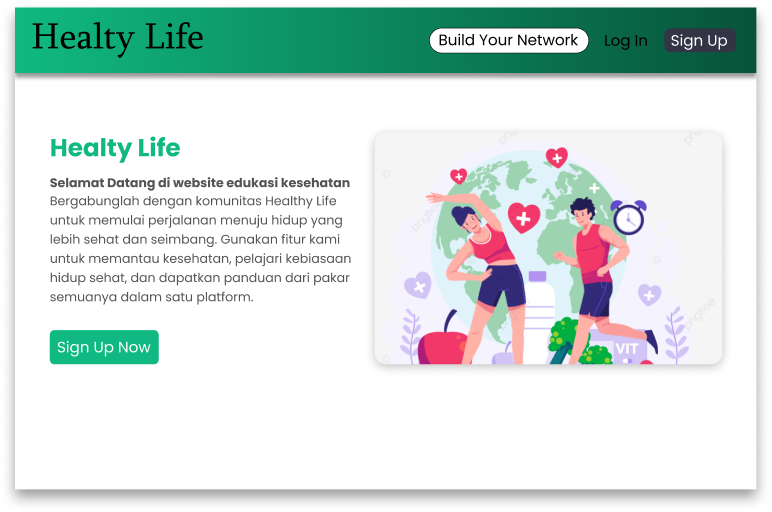
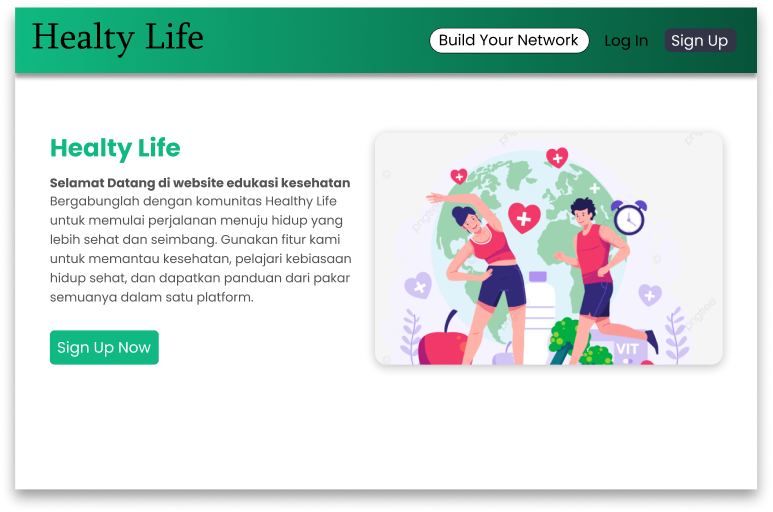
Update Projects again

diff --git a/src/App.jsx b/src/App.jsx
@@ -26,6 +26,14 @@ import iphoneLogo from './assets/iphone.png'
 import iphone1Logo from './assets/iphone 1.png'
 import splashLogo from './assets/splash.png'
 import projectSanding from './assets/sanding.png'
+import projectPasarNgalam from './assets/Ngalam.png'
+import mysqlLogo from './assets/Mysql.png'
+import javascriptLogo from './assets/Javascript.png'
+import laravelLogo from './assets/laravel.png'
+import projectUmkm from './assets/umkm.png'
+import projectIot from './assets/IOT.png'
+import tailwindLogo from './assets/Tailwind CSS.png'
+import reactLogo from './assets/react.svg'
 import './App.css'
 
 function App() {
@@ -239,6 +247,43 @@ function App() {
           <div className="projects-divider scroll-reveal"></div>
 
           <div className="projects-list">
+            {/* Project 1: Sentinel IoT */}
+            <div className="project-item visual-left scroll-reveal">
+              <div className="project-visual">
+                <div className="project-image-wrapper">
+                  <img src={projectIot} alt="Sentinel IoT Preview" className="project-image" />
+                </div>
+              </div>
+
+              <div className="project-info">
+                <div className="project-header-container">
+                  <h3 className="project-item-title">SENTINEL - IOT</h3>
+                  <span className="project-badge project-badge-iot">IOT</span>
+                </div>
+                
+                <p className="project-desc">
+                  Developed an IoT monitoring system to detect fire and gas leaks in real time by integrating sensors, a microcontroller, and a web-based dashboard. Implemented the Sugeno Fuzzy Logic algorithm to process sensor data and enable automated decision-making, improving safety and response to potential hazards.
+                </p>
+
+                <div className="project-footer">
+                  <div className="project-tech-icons">
+                    <div className="tech-icon-wrapper">
+                      <img src={laravelLogo} alt="Laravel" className="tech-icon" />
+                    </div>
+                    <div className="tech-icon-wrapper">
+                      <img src={mysqlLogo} alt="MySQL" className="tech-icon" />
+                    </div>
+                    <div className="tech-icon-wrapper">
+                      <img src={reactLogo} alt="ReactJS" className="tech-icon" />
+                    </div>
+                    <div className="tech-icon-wrapper">
+                      <img src={tailwindLogo} alt="Tailwind CSS" className="tech-icon" />
+                    </div>
+                  </div>
+                </div>
+              </div>
+            </div>
+
             <div className="project-item scroll-reveal">
               <div className="project-info">
                 <div className="project-header-container">
@@ -276,14 +321,14 @@ function App() {
               </div>
 
               <div className="project-visual">
-                <div className="project-image-wrapper">
+                <div className="project-image-wrapper healty-life-wrapper">
                   <img src={projectHealtyLife} alt="Healthy Life Website Preview" className="project-image" />
                 </div>
               </div>
             </div>
 
             {/* Project 2: Lokara */}
-            <div className="project-item scroll-reveal">
+            <div className="project-item visual-left scroll-reveal">
               <div className="project-visual">
                 <div className="project-image-wrapper lokara-wrapper">
                   <img src={splashLogo} alt="Lokara Splash Background" className="project-image lokara-bg" />
@@ -344,6 +389,94 @@ function App() {
               <div className="project-visual">
                 <div className="project-image-wrapper">
                   <img src={projectSanding} alt="Sanding Solutions Website Preview" className="project-image" />
+                </div>
+              </div>
+            </div>
+
+            {/* Project 4: Pasar Ngalam */}
+            <div className="project-item visual-left scroll-reveal">
+              <div className="project-visual">
+                <div className="project-image-wrapper">
+                  <img src={projectPasarNgalam} alt="Pasar Ngalam Website Preview" className="project-image" />
+                </div>
+              </div>
+
+              <div className="project-info">
+                <div className="project-header-container">
+                  <h3 className="project-item-title">PASAR NGALAM - MARKETPLACE PLATFORM</h3>
+                  <span className="project-badge">Website</span>
+                </div>
+                
+                <p className="project-desc">
+                  Developed a marketplace platform to help local sellers market their products digitally through product management, catalog, and structured database features. Designed an efficient data management system to streamline product entry, organization, and information display while supporting well-organized digital transactions.
+                </p>
+
+                <div className="project-footer">
+                  <div className="project-tech-icons">
+                    <div className="tech-icon-wrapper">
+                      <img src={mysqlLogo} alt="MySQL" className="tech-icon" />
+                    </div>
+                    <div className="tech-icon-wrapper">
+                      <img src={javascriptLogo} alt="Javascript" className="tech-icon" />
+                    </div>
+                    <div className="tech-icon-wrapper">
+                      <img src={phpLogo} alt="PHP" className="tech-icon" />
+                    </div>
+                    <div className="tech-icon-wrapper">
+                      <img src={figmaLogo} alt="Figma" className="tech-icon" />
+                    </div>
+                    <div className="tech-icon-wrapper">
+                      <img src={laravelLogo} alt="Laravel" className="tech-icon" />
+                    </div>
+                  </div>
+
+                  <a href="#" target="_blank" rel="noopener noreferrer" className="live-demo-badge-inline">
+                    Live Demo <span className="demo-arrow">↗</span>
+                  </a>
+                </div>
+              </div>
+            </div>
+
+            {/* Project 5: Waroeng K-conk */}
+            <div className="project-item scroll-reveal">
+              <div className="project-info">
+                <div className="project-header-container">
+                  <h3 className="project-item-title">WEBSITE WAROENG K-CONK - UMKM KULINER</h3>
+                  <span className="project-badge">Website</span>
+                </div>
+                
+                <p className="project-desc">
+                  Developed a web platform for Waroeng K-Conk, a culinary local business (UMKM) specializing in authentic bebek bumbu hitam. Designed and implemented website features to display menus, facilitate ordering processes, and showcase culinary offerings to help the business digitalize its operations and reach a wider customer base.
+                </p>
+
+                <div className="project-footer">
+                  <div className="project-tech-icons">
+                    <div className="tech-icon-wrapper">
+                      <img src={xamppLogo} alt="XAMPP" className="tech-icon" />
+                    </div>
+                    <div className="tech-icon-wrapper">
+                      <img src={phpLogo} alt="PHP" className="tech-icon" />
+                    </div>
+                    <div className="tech-icon-wrapper">
+                      <img src={figmaLogo} alt="Figma" className="tech-icon" />
+                    </div>
+                    <div className="tech-icon-wrapper">
+                      <img src={htmlLogo} alt="HTML5" className="tech-icon" />
+                    </div>
+                    <div className="tech-icon-wrapper">
+                      <img src={cssLogo} alt="CSS3" className="tech-icon" />
+                    </div>
+                  </div>
+
+                  <a href="#" target="_blank" rel="noopener noreferrer" className="live-demo-badge-inline">
+                    Live Demo <span className="demo-arrow">↗</span>
+                  </a>
+                </div>
+              </div>
+
+              <div className="project-visual">
+                <div className="project-image-wrapper">
+                  <img src={projectUmkm} alt="Waroeng K-Conk Website Preview" className="project-image" />
                 </div>
               </div>
             </div>

diff --git a/src/App.css b/src/App.css
@@ -726,8 +726,16 @@
   align-items: center;
 }
 
-.project-item:nth-child(even) {
+.project-item.visual-left {
   grid-template-columns: 0.9fr 1.1fr;
+}
+
+/* Custom Styles for SENTINEL - IOT */
+.project-badge-iot {
+  background-color: #000000 !important;
+  color: #a3e635 !important;
+  border-color: rgba(163, 230, 53, 0.3) !important;
+  text-transform: uppercase !important;
 }
 
 .project-info {
@@ -873,7 +881,15 @@
   width: 100%;
   height: 2px;
   background-color: rgba(255, 255, 255, 0.8);
-  margin-top: 50px;
+  margin-top: 60px;
+}
+
+/* Healthy Life Specific Layout Styles */
+.healty-life-wrapper {
+  background: transparent;
+  box-shadow: none;
+  border: none;
+  overflow: visible;
 }
 
 /* Lokara Specific Layout Styles */
@@ -971,7 +987,7 @@
   }
 
   .project-item,
-  .project-item:nth-child(even) {
+  .project-item.visual-left {
     grid-template-columns: 1fr;
     gap: 40px;
   }

diff --git a/scratch/normalize_icons.py b/scratch/normalize_icons.py
@@ -1,0 +1,42 @@
+import os
+from PIL import Image
+
+def trim_transparency_threshold(img_path, threshold=10):
+    img = Image.open(img_path)
+    w, h = img.size
+    pixels = img.load()
+    
+    min_x, min_y, max_x, max_y = w, h, 0, 0
+    found = False
+    
+    for y in range(h):
+        for x in range(w):
+            alpha = pixels[x, y][3]
+            if alpha > threshold:
+                found = True
+                if x < min_x: min_x = x
+                if y < min_y: min_y = y
+                if x > max_x: max_x = x
+                if y > max_y: max_y = y
+                
+    if found:
+        # Add a tiny padding
+        pad_x = int(w * 0.02)
+        pad_y = int(h * 0.02)
+        
+        left = max(0, min_x - pad_x)
+        top = max(0, min_y - pad_y)
+        right = min(w, max_x + pad_x)
+        bottom = min(h, max_y + pad_y)
+        
+        trimmed_img = img.crop((left, top, right, bottom))
+        # Ensure we preserve original image object/file
+        trimmed_img.save(img_path)
+        print(f"Trimmed {img_path} with threshold from {img.size} to {trimmed_img.size}")
+    else:
+        print(f"No pixels with alpha > {threshold} found in {img_path}")
+
+if __name__ == "__main__":
+    trim_transparency_threshold("src/assets/Mysql.png")
+    trim_transparency_threshold("src/assets/Javascript.png")
+    trim_transparency_threshold("src/assets/laravel.png")
